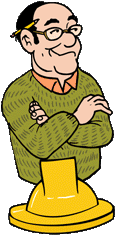
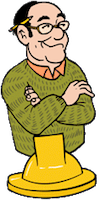
resized images and sprite proportions

diff --git a/src/main/resources/public/app/app.js b/src/main/resources/public/app/app.js
@@ -36,8 +36,8 @@ Game = {
 		// Create entity (player object)
 		Game._player = Crafty.e('Player').at(Math.floor(Game.board.width / 2), Game.board.height - 10);
 		Game._player.color("rgba(0,0,0,0.01)");
-		Game._player.w = 100;
-		Game._player.h = 100;
+		Game._player.w = 35;
+		Game._player.h = 70;
 		Game._player.z = 1000000000;
 		Game._player.css("background-size", "100%")
 		Game._player.attr("name", window.prompt("Pick a character", "profPlum"));
